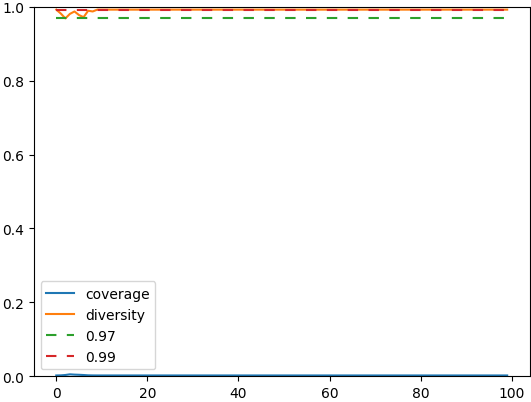
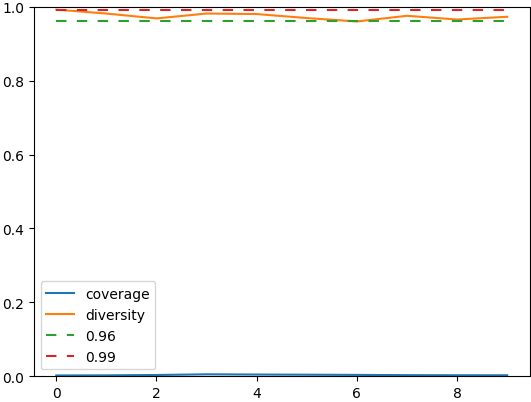
data xfer water

diff --git a/Simulator_v2/simulatorv2/sim_globals.py b/Simulator_v2/simulatorv2/sim_globals.py
@@ -1,7 +1,7 @@
 """
 Global simulator/garden constants. Affects both test run and RL settings
 """
-MAX_WATER_LEVEL = 1  # Arbitrary until we get soil measurements; feel free to change
+MAX_WATER_LEVEL = 10  # Arbitrary until we get soil measurements; feel free to change
 PRUNE_DELAY = 20 # Higher prune delay means less max_water_level so plants don't grow too big
 PRUNE_THRESHOLD = 2
 PRUNE_RATE = 0.15
@@ -12,5 +12,5 @@ NUM_PLANTS = 100
 NUM_PLANT_TYPES_USED = 10
 PERCENT_NON_PLANT_CENTERS = 0.1
 
-OVERWATERED_THRESHOLD = 100
+OVERWATERED_THRESHOLD = 250
 UNDERWATERD_THRESHOLD = 0.1

diff --git a/RL_Framework/tune_fixed.py b/RL_Framework/tune_fixed.py
@@ -146,7 +146,7 @@ if __name__ == '__main__':
     obs_low = 0
     obs_high = rows * cols
 
-    garden_days = 100
+    garden_days = 10
     sector_obs_per_day = int(NUM_PLANTS + PERCENT_NON_PLANT_CENTERS * NUM_PLANTS)
     collection_time_steps = sector_obs_per_day * garden_days  # 210 sectors observed/garden_day * 200 garden_days
     water_threshold = 0.6
